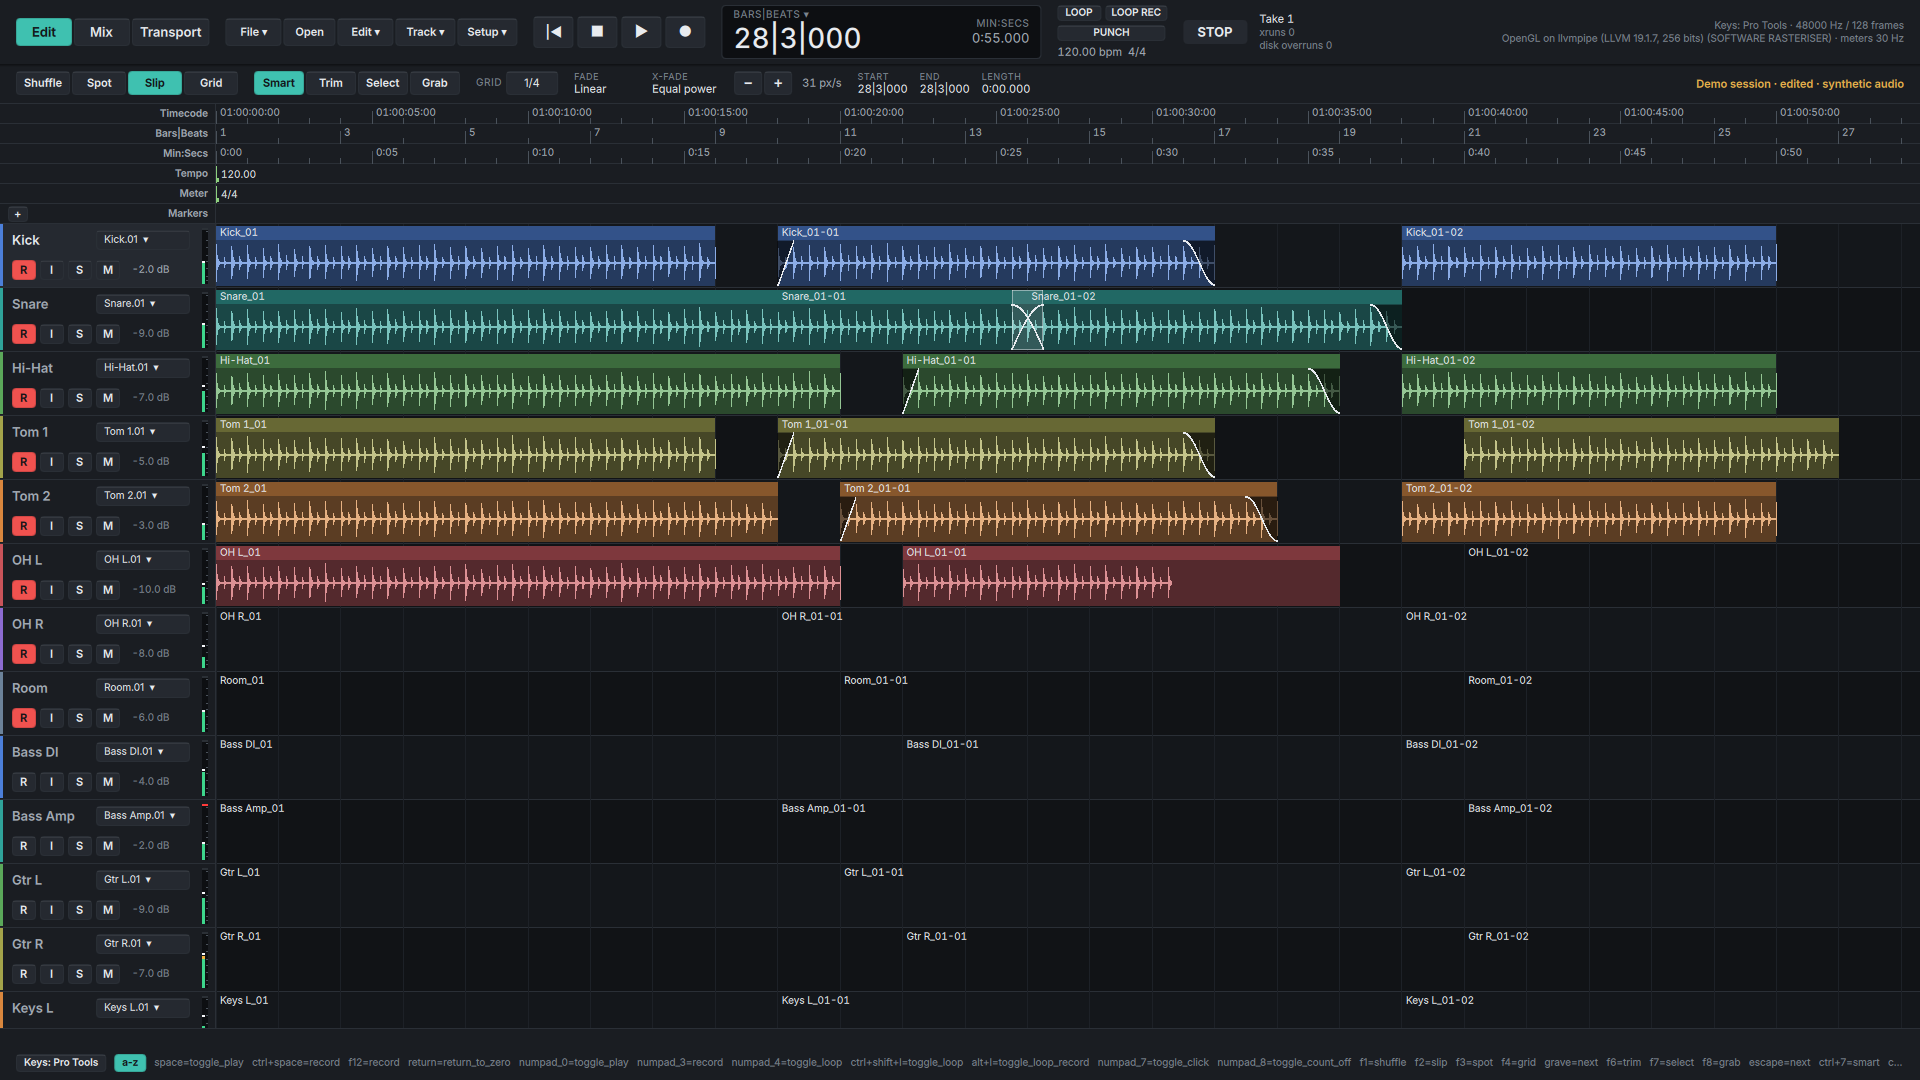
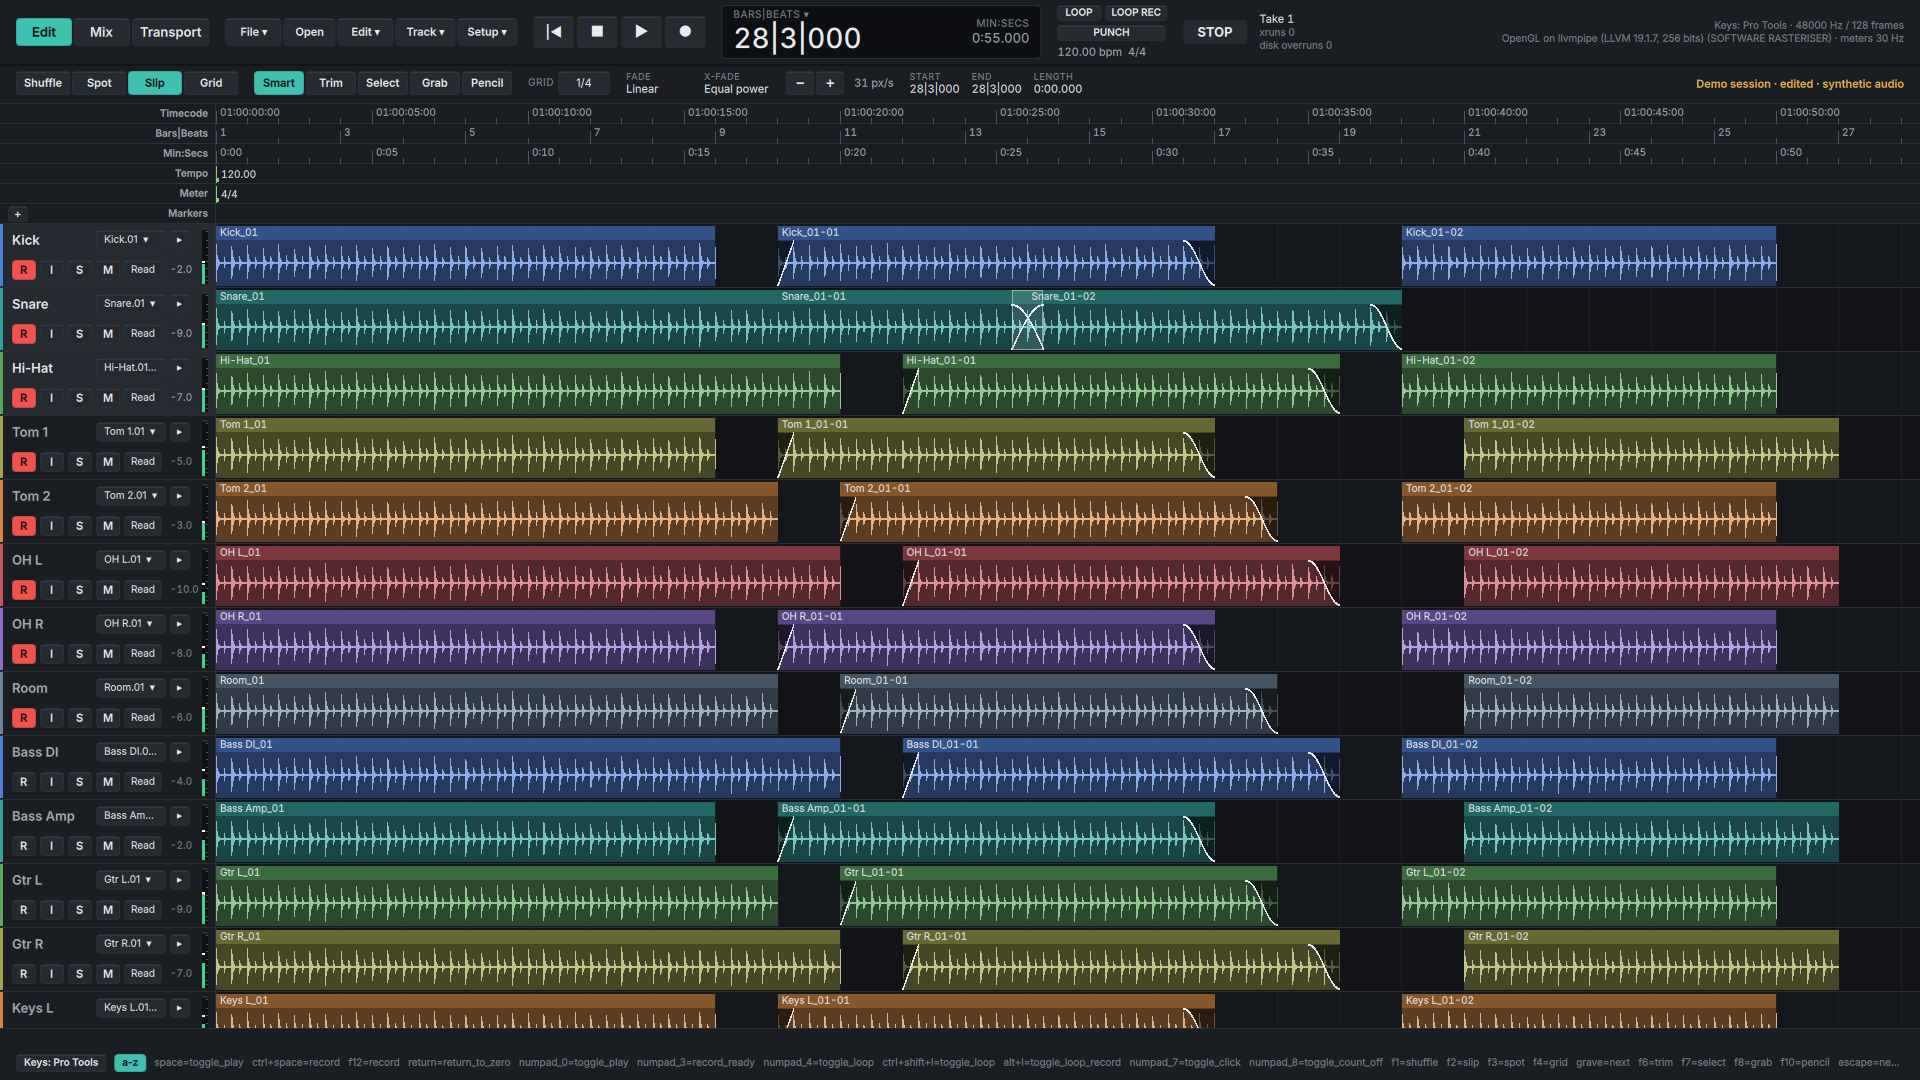
Edit headers show every selected track; Shift/Alt-click on R reads the engine's arm state at the click (#305 follow-ups) (#340)

diff --git a/ui/qt/qml/EditWindow.qml b/ui/qt/qml/EditWindow.qml
@@ -294,7 +294,7 @@ Item {
                     objectName: "trackHeader" + index
                     required property int index
                     required property string modelData
-                    readonly property bool selected: edit.session.selectedTrack === index
+                    readonly property bool selected: edit.session.selectedTracks.indexOf(index) >= 0
                     readonly property var row: edit.session.trackRows[index] || ({})
                     readonly property bool armed: edit.shell.engineAlive && edit.shell.armed[index] === true
                     y: edit.rowTop(index) - edit.session.scrollY

diff --git a/ui/qt/src/shell_model.cpp b/ui/qt/src/shell_model.cpp
@@ -287,19 +287,33 @@ void ShellModel::armClick(int track, int modifiers, const QList<int>& selected) 
     static const QString toggle = QStringLiteral("track.toggle_arm");
     const bool alt = (modifiers & Qt::AltModifier) != 0;
     const bool shift = (modifiers & Qt::ShiftModifier) != 0;
-    // Without a known state for the clicked track there is no "new state" to
-    // spread; the plain toggle lets the router or the engine say why.
-    if ((!alt && !shift) || track < 0 || track >= armed_.size()) {
+    if (!alt && !shift) {
         invoke(toggle, track);
         return;
     }
-    const bool on = !armed_[track];
+    // The state the engine holds now, read at the click: the published list
+    // is up to a refresh old, and a click on it would spread a state the
+    // button no longer shows. Without a fresh read there is no "new state"
+    // to spread; the plain toggle lets the router or the engine say why.
+    std::vector<bool> now;
+    if (engine_.engine_alive(now_ns_())) {
+        engine_.frame(now_frame_);
+        if (!now_frame_.transport.stale) {
+            for (const auto& s : now_frame_.tracks) now.push_back(s.armed);
+        }
+    }
+    const int n = static_cast<int>(now.size());
+    if (track < 0 || track >= n) {
+        invoke(toggle, track);
+        return;
+    }
+    const bool on = !now[static_cast<std::size_t>(track)];
     if (!shift) {
         invoke(on ? QStringLiteral("track.arm_all") : QStringLiteral("track.disarm_all"), -1);
         return;
     }
     for (int t : selected) {
-        if (t >= 0 && t < armed_.size() && armed_[t] != on) invoke(toggle, t);
+        if (t >= 0 && t < n && now[static_cast<std::size_t>(t)] != on) invoke(toggle, t);
     }
 }
 

diff --git a/ui/qt/src/session_model.h b/ui/qt/src/session_model.h
@@ -85,6 +85,9 @@ class SessionModel : public QObject {
     Q_PROPERTY(QString fadeShape READ fadeShape NOTIFY editStateChanged)
     Q_PROPERTY(QString crossfadeShape READ crossfadeShape NOTIFY editStateChanged)
     Q_PROPERTY(int selectedTrack READ selectedTrack NOTIFY selectionChanged)
+    // Every track the selection covers: the headers the Shift-click on R and I
+    // acts on, drawn as selected.
+    Q_PROPERTY(QList<int> selectedTracks READ selectedTracks NOTIFY selectionChanged)
     Q_PROPERTY(QString selectionStart READ selectionStart NOTIFY selectionChanged)
     Q_PROPERTY(QString selectionEnd READ selectionEnd NOTIFY selectionChanged)
     Q_PROPERTY(QString selectionLength READ selectionLength NOTIFY selectionChanged)
@@ -365,6 +368,7 @@ public:
         return QString::fromLatin1(fade_shape_name(ctl_.crossfade_shape()));
     }
     int selectedTrack() const { return ctl_.selection().track; }
+    QList<int> selectedTracks() const;
     QString selectionStart() const;
     QString selectionEnd() const;
     QString selectionLength() const;

diff --git a/ui/qt/tests/test_shell.cpp b/ui/qt/tests/test_shell.cpp
@@ -346,6 +346,16 @@ int main(int argc, char** argv) {
         from = engine.sent.size();
         CHECK(click(QStringLiteral("stripArm4"), Qt::AltModifier | Qt::ShiftModifier));
         CHECK(engine.sent.size() == from + 3);
+        // The selection covers 3..5 and the Edit headers show all three.
+        CHECK(session.selectedTracks() == QList<int>({3, 4, 5}));
+        // The engine disarmed everything since the last refresh (the list
+        // still shows 3..5 armed): the click reads the engine, so Alt-click
+        // arms rather than disarms.
+        engine.armed.assign(18, false);
+        CHECK(click(QStringLiteral("stripArm3"), Qt::AltModifier));
+        CHECK(engine.sent.back().command == "track.arm_all");
+        engine.armed[3] = engine.armed[4] = engine.armed[5] = true;
+        refresh();
         // A Shift-click outside the selection acts on that track only.
         from = engine.sent.size();
         CHECK(click(QStringLiteral("stripArm9"), Qt::ShiftModifier));

diff --git a/ui/qt/src/session_model.cpp b/ui/qt/src/session_model.cpp
@@ -1098,6 +1098,15 @@ void SessionModel::selectTrack(int index) {
     sync();
 }
 
+QList<int> SessionModel::selectedTracks() const {
+    const Selection& s = ctl_.selection();
+    const int n = static_cast<int>(ctl_.snapshot().edit->tracks.size());
+    QList<int> out;
+    if (s.track < 0) return out;
+    for (int i = s.track; i < s.track + s.tracks && i < n; ++i) out << i;
+    return out;
+}
+
 QList<int> SessionModel::selectedTracksFor(int track) const {
     const Selection& s = ctl_.selection();
     const int n = static_cast<int>(ctl_.snapshot().edit->tracks.size());

diff --git a/brain/specs/ui-design.md b/brain/specs/ui-design.md
@@ -289,6 +289,15 @@ Every continuous control behaves the same way. A vertical drag rides it, at
 Alt-click returns it to its default. A click on the readout lets you type a
 value. The wheel moves one step. A knob is never turned by a circular drag.
 
+**R and I buttons (2026-11-03).** Click toggles the track. Alt-click sets
+every track to the clicked track's new state; Shift-click sets the selected
+tracks (all the tracks the selection covers, whose headers draw as selected)
+to it, or only the clicked track when it is outside the selection;
+Alt+Shift is the Shift case. The new state is read from the engine at the
+click, not from the last published list. Plain Shift-click is kept: the
+parity audit (row 1) finds it is Pro Tools' selected-tracks click and no
+guide binds it otherwise.
+
 ## Mixer strip anatomy
 
 **Update, 2026-10-31.** The fader and its meter are the strip, and every
